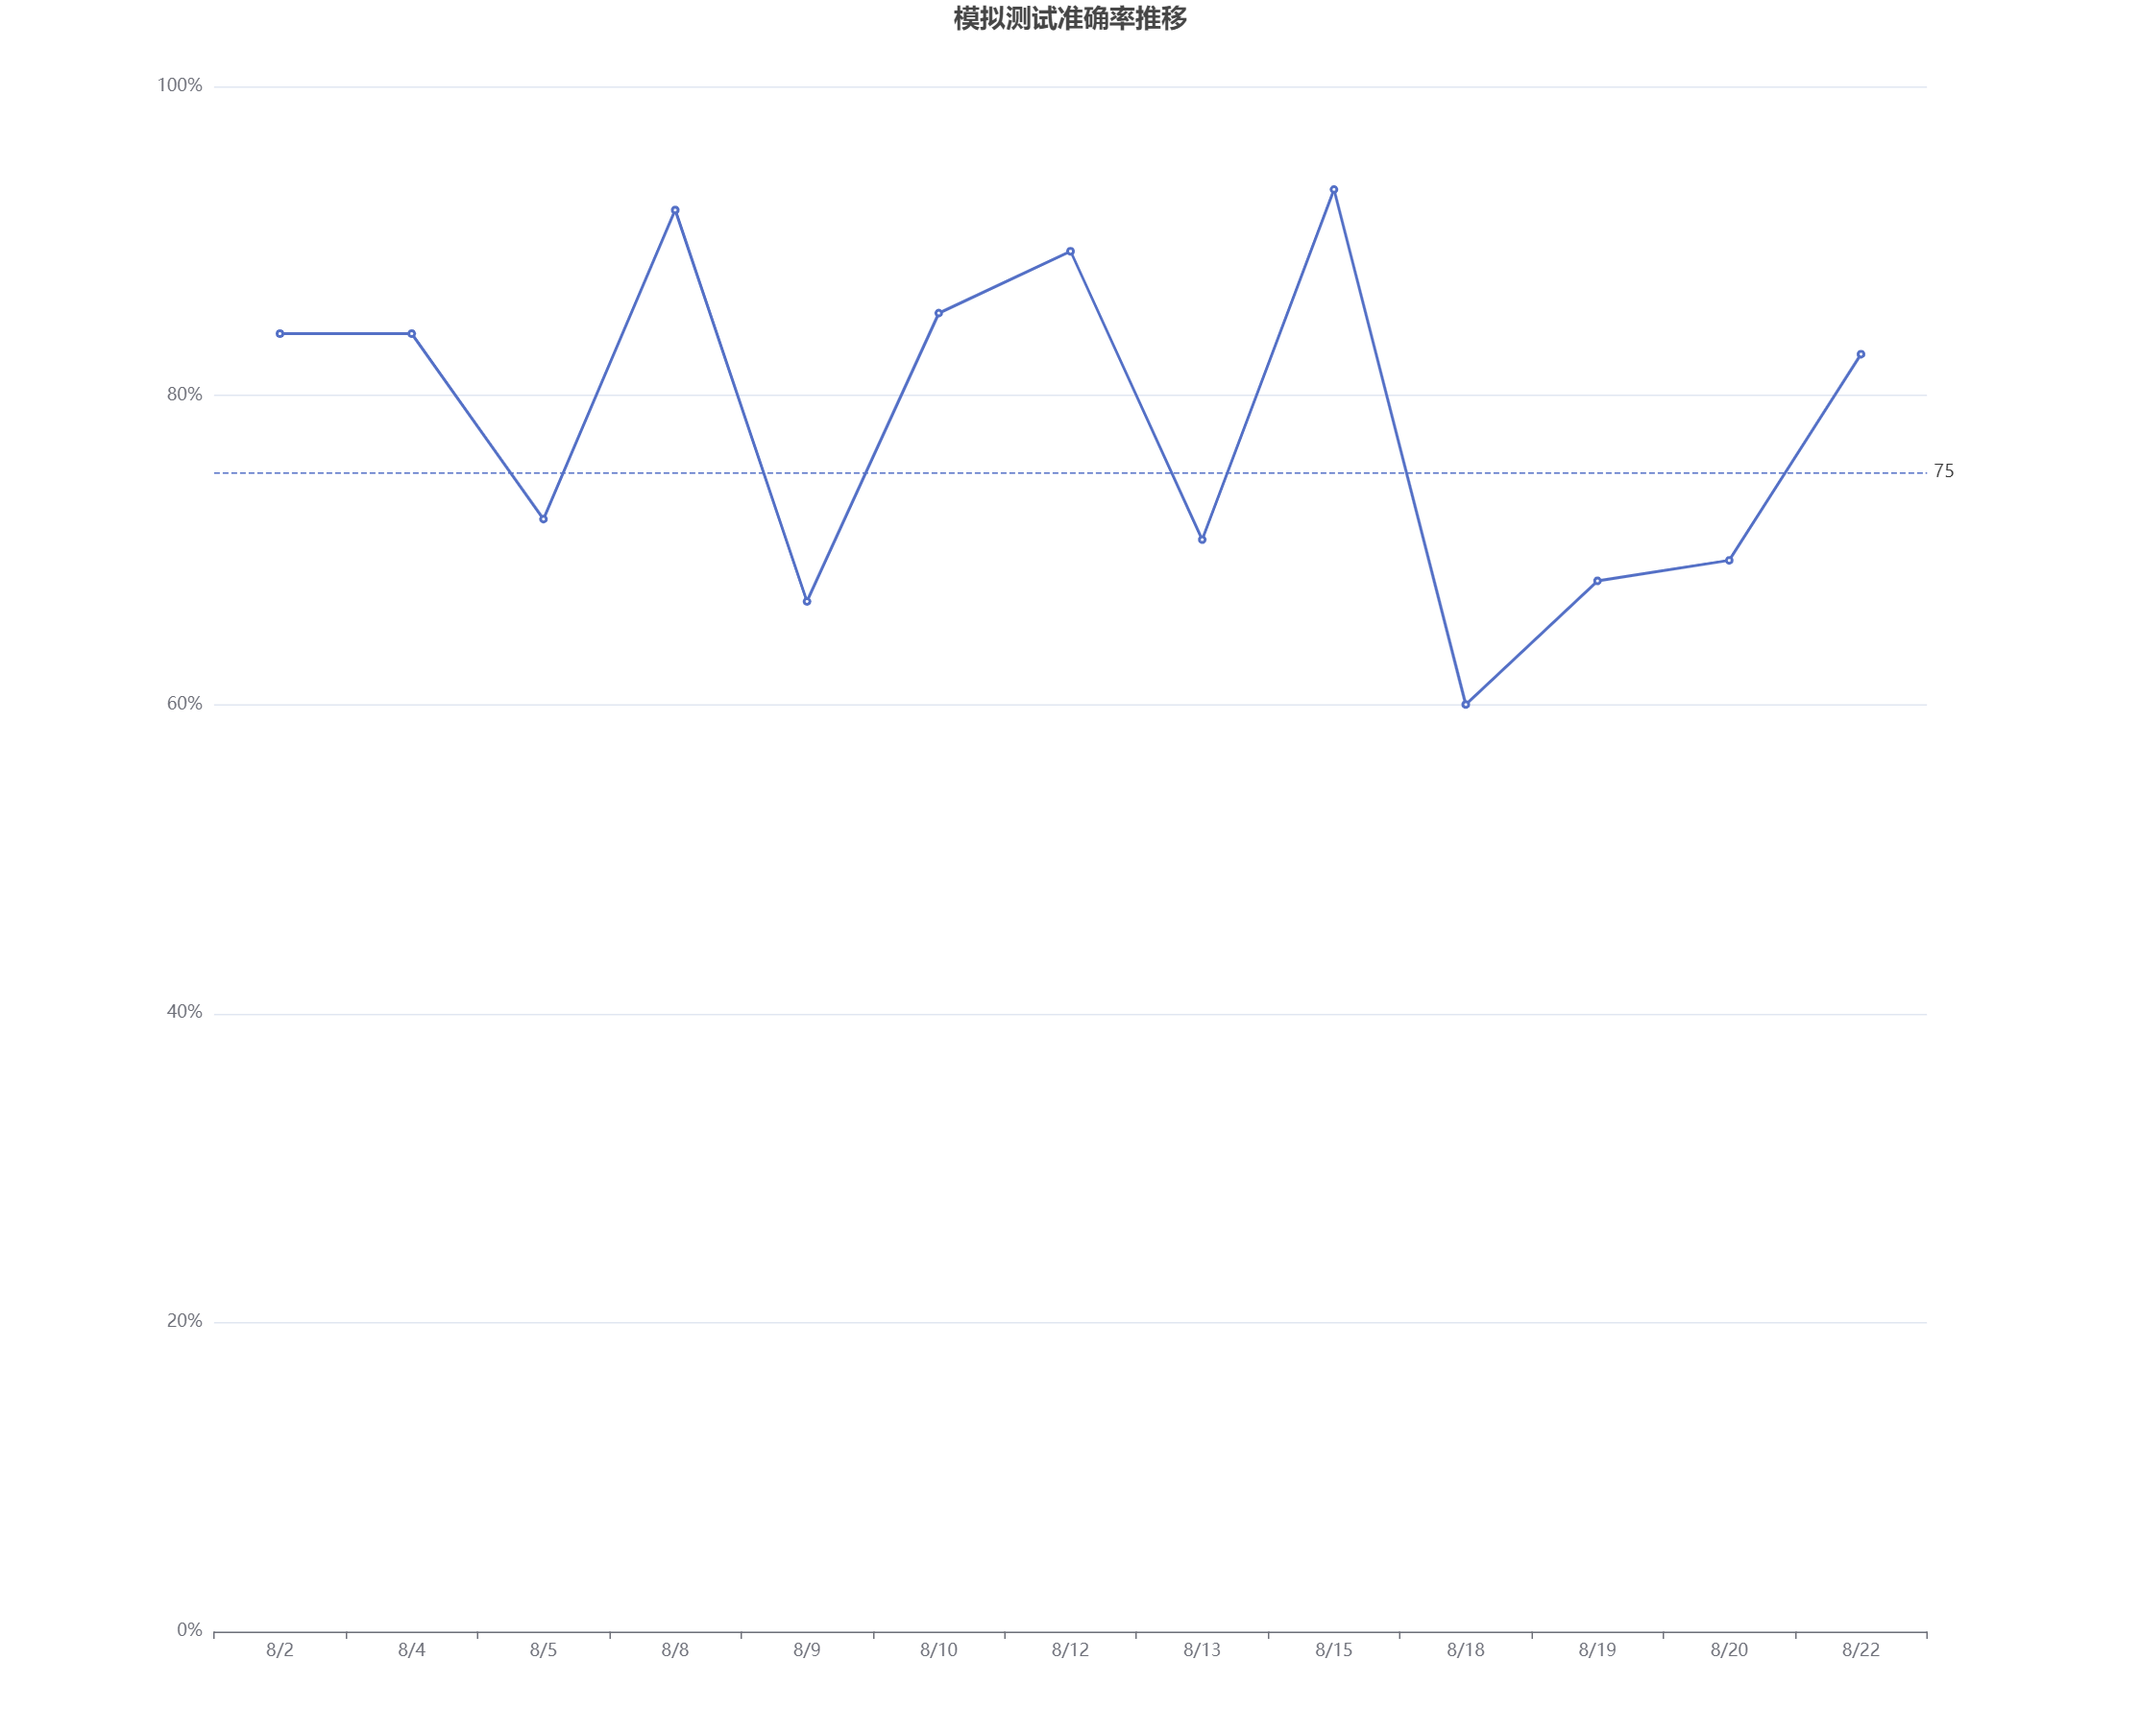
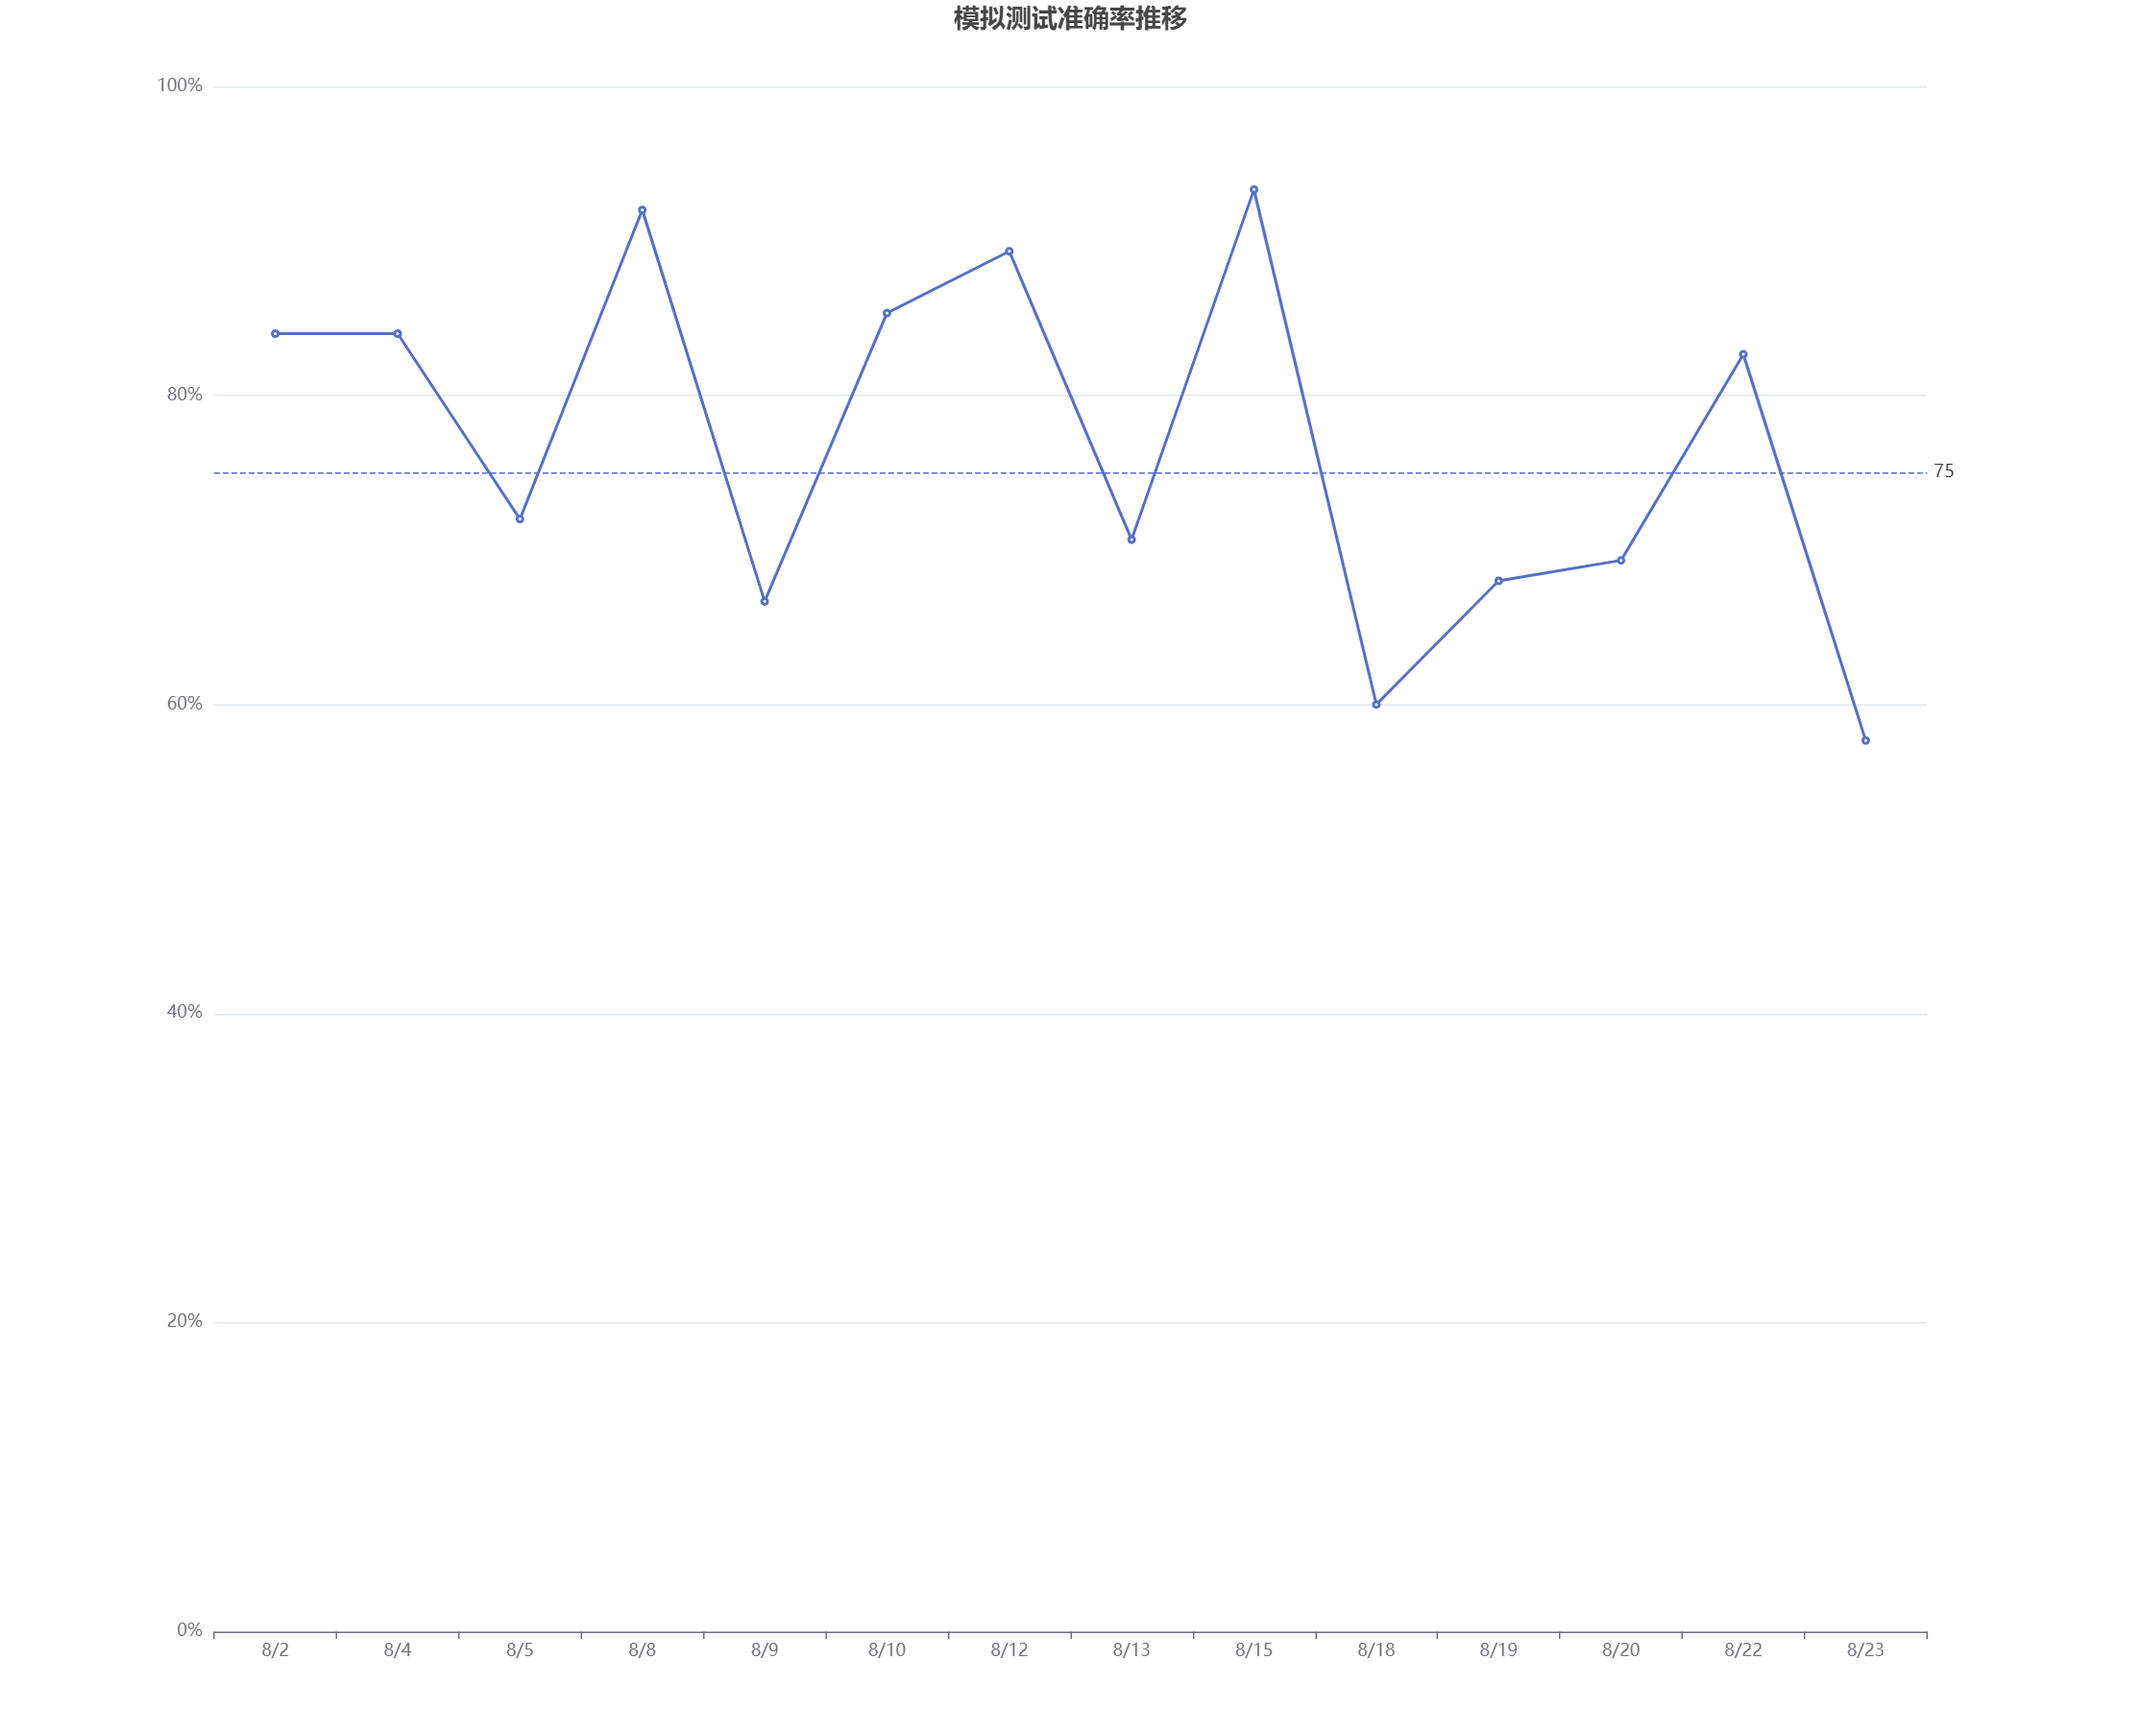
[update] daily test 376-450

diff --git a/src/testReview.js b/src/testReview.js
@@ -303,3 +303,72 @@ option = {
     datasetIndex: 1,
   },
 };
+
+/////////////////////////////////////////////////////
+
+option = {
+  title: {
+    left: "center",
+    text: "第六套题错题情况",
+  },
+  dataset: [
+    {
+      dimensions: ["number", "frequent"],
+      source: [
+        ["376", 1],
+        ["379", 1],
+        ["382", 1],
+        ["394", 1],
+        ["395", 1],
+        ["397", 1],
+        ["402", 1],
+        ["403", 1],
+        ["405", 1],
+        ["407", 1],
+        ["397", 1],
+        ["402", 1],
+        ["403", 1],
+        ["405", 1],
+        ["407", 1],
+        ["408", 1],
+        ["410", 1],
+        ["412", 1],
+        ["413", 1],
+        ["414", 1],
+        ["416", 1],
+        ["417", 1],
+        ["421", 1],
+        ["424", 1],
+        ["427", 1],
+        ["428", 1],
+        ["431", 1],
+        ["432", 1],
+        ["434", 1],
+        ["437", 1],
+        ["439", 1],
+        ["442", 1],
+        ["443", 1],
+        ["446", 1],
+        ["447", 1],
+        ["449", 1],
+      ],
+    },
+    {
+      transform: {
+        type: "sort",
+        config: { dimension: "frequent", order: "desc" },
+      },
+    },
+  ],
+  xAxis: {
+    type: "category",
+    axisLabel: { interval: 0, rotate: 30 },
+  },
+  yAxis: {},
+  series: {
+    type: "bar",
+    encode: { x: "number", y: "frequent" },
+    datasetIndex: 1,
+  },
+};
+

diff --git a/src/dailyPractice.js b/src/dailyPractice.js
@@ -5,7 +5,7 @@ option = {
   },
   xAxis: {
     type: "category",
-    data: ["8/2", "8/4", "8/5", "8/8", "8/9", "8/10", "8/12", "8/13", "8/15", "8/18", "8/19", "8/20", "8/22"],
+    data: ["8/2", "8/4", "8/5", "8/8", "8/9", "8/10", "8/12", "8/13", "8/15", "8/18", "8/19", "8/20", "8/22", "8/23"],
   },
   yAxis: {
     type: "value",
@@ -15,7 +15,7 @@ option = {
   },
   series: [
     {
-      data: [84, 84, 72, 92, 66.67, 85.33, 89.33, 70.67, 93.33, 60.00, 68.00, 69.33, 82.67],
+      data: [84, 84, 72, 92, 66.67, 85.33, 89.33, 70.67, 93.33, 60.00, 68.00, 69.33, 82.67, 57.67],
       type: "line",
       markLine: {
         symbol: ["none", "none"],

diff --git a/README.md b/README.md
@@ -65,6 +65,16 @@
 - 307, 327, 328, 331, 332, 333, 338, 339, 344, 354, 360, 362, 364
 - 正确率82.67%
 
+## 2021年8月23日测试错题
+
+- 307, 327, 328, 331, 332, 333, 338, 339, 344, 354, 360, 362, 364
+- 正确率82.67%
+
+## 2021年8月24日测试错题
+
+- 376, 379, 382, 394, 395, 397, 402, 403, 405, 407, 408, 410, 412, 413, 414, 416, 417, 421, 424, 427, 428, 431, 432, 434, 437, 439, 442, 443, 446, 447, 449
+- 正确率58.67%
+
 ## 图表
 
 ![01](./img/testReview1.png)
